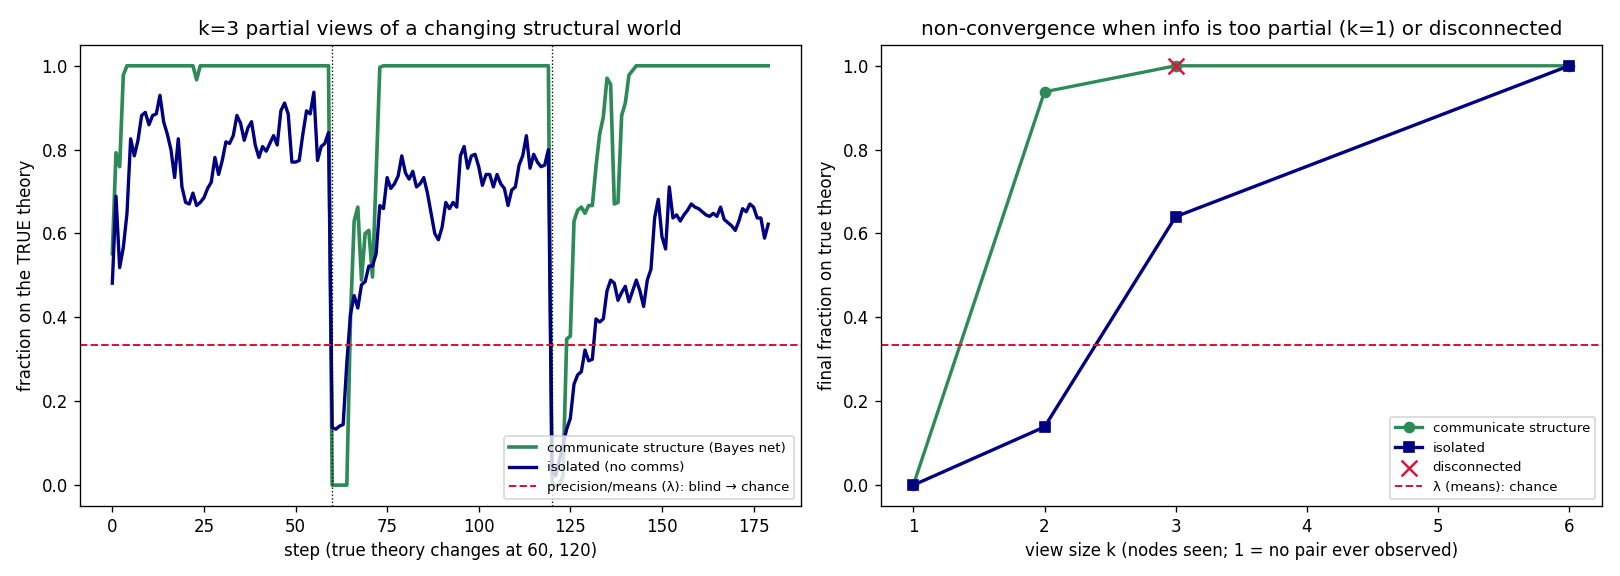
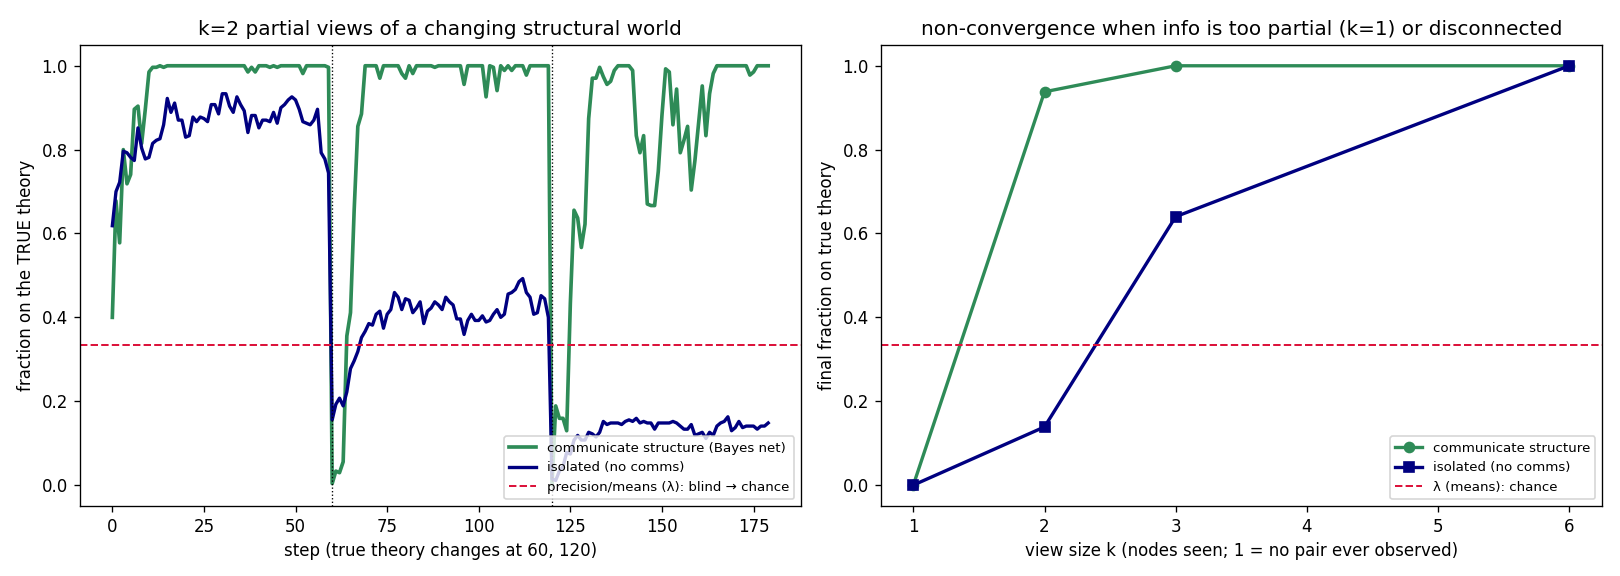
stuff

diff --git a/scripts/run_meanmatched_structure.py b/scripts/run_meanmatched_structure.py
@@ -149,13 +149,10 @@ def main() -> int:
         conv = "yes" if sweep[-1]["struc"] > 0.6 else "NO"
         print(f"{k:6d} | {sweep[-1]['iso']:9.2f} | {sweep[-1]['struc']:15.2f} | {conv}")
 
-    # disconnected control at k=2 -- the regime where INDIVIDUALS can't classify (iso~0.14) but
-    # connected structure-comms can (~0.94); without pooling it should fall back to ~isolated.
-    Vc = agent_views(2, 0)
-    disc = float(np.mean([run(Vc, Sig, L, comms="structure", connected=False, seed=s)[-30:].mean()
-                          for s in SEEDS]))
-    print(f"\n  disconnected control (k=2, structure-comms, no pooling): on-true={disc:.2f} "
-          f"(expect low -- partial pair-views can't be combined)")
+    # The no-pooling baseline IS the 'isolated' column (comms='none'): at k=2 individuals manage
+    # only ~0.14 while connected structure-comms reaches ~0.94 -- communicating the structure is
+    # what rescues it. (A community graph with inter=0 still pools WITHIN each 30-node block, which
+    # already covers the pairs, so it is not a no-pooling control; the isolated column is.)
 
     # representative trajectory (k=2, connected) for the figure -- the comms-rescue regime
     traj_struc = np.mean([run(agent_views(2, s), Sig, L, comms="structure", connected=True, seed=s)
@@ -175,8 +172,7 @@ def main() -> int:
     a0.set_title("k=2 partial views of a changing structural world")
     ks = [s["k"] for s in sweep]
     a1.plot(ks, [s["struc"] for s in sweep], "o-", color="seagreen", lw=2, label="communicate structure")
-    a1.plot(ks, [s["iso"] for s in sweep], "s-", color="navy", lw=2, label="isolated")
-    a1.scatter([2], [disc], marker="x", s=90, color="crimson", zorder=5, label="disconnected (k=2)")
+    a1.plot(ks, [s["iso"] for s in sweep], "s-", color="navy", lw=2, label="isolated (no comms)")
     a1.axhline(chance, color="crimson", ls="--", lw=1.2, label="λ (means): chance")
     a1.set_xlabel("view size k (nodes seen; 1 = no pair ever observed)")
     a1.set_ylabel("final fraction on true theory"); a1.set_ylim(-0.05, 1.05); a1.legend(fontsize=8)
@@ -190,28 +186,25 @@ def main() -> int:
     assert by_k[6]["struc"] > 0.8, \
         f"full views + structure-comms should converge, got {by_k[6]['struc']:.2f}"
     assert by_k[2]["struc"] > by_k[2]["iso"] + 0.1, \
-        "communicating structure should beat isolated once pairs are visible"
-    assert disc < by_k[2]["struc"] - 0.1, \
-        f"disconnected (k=2) should converge worse than connected ({disc:.2f} vs {by_k[2]['struc']:.2f})"
+        "communicating structure should beat isolated once pairs are visible (comms is essential)"
 
     summary = {"config": {"D": D, "rho": RHO, "N": N, "omega": OMEGA, "view_sizes": list(VIEW_SIZES),
                           "seeds": list(SEEDS), "theories": names, "epochs": [0, T1, T2]},
-               "chance": chance,
-               "sweep": sweep, "disconnected_k3": disc}
+               "chance": chance, "sweep": sweep}
     with (out_dir / "summary.json").open("w", encoding="utf-8") as fh:
         json.dump(summary, fh, indent=2)
     np.savez_compressed(out_dir / "simulation_arrays.npz",
                         view_sizes=np.array(VIEW_SIZES),
                         iso=np.array([s["iso"] for s in sweep]),
                         struc=np.array([s["struc"] for s in sweep]),
-                        disconnected_k3=disc, chance=chance,
-                        traj_struc=traj_struc, traj_iso=traj_iso)
+                        chance=chance, traj_struc=traj_struc, traj_iso=traj_iso)
 
     print(f"\nsaved arrays / figure / summary to {out_dir}")
     print(f"HEADLINE: when the truth is structural, the λ/means thing is blind (chance {chance:.2f}); "
-          f"communicating the Bayes net converges only when partial views see pairs AND can pool "
-          f"(k≥2 connected); with k=1 ({by_k[1]['struc']:.2f}) or disconnected ({disc:.2f}) the "
-          f"population does NOT converge -- imperfect information, no agreement.")
+          f"communicating the Bayes net rescues it ONLY when partial views see pairs and can pool "
+          f"(k=2: isolated {by_k[2]['iso']:.2f} → structure-comms {by_k[2]['struc']:.2f}); with k=1 "
+          f"({by_k[1]['struc']:.2f}, no pair ever seen) the population does NOT converge however it "
+          f"communicates -- imperfect information, no agreement.")
     return 0
 
 
